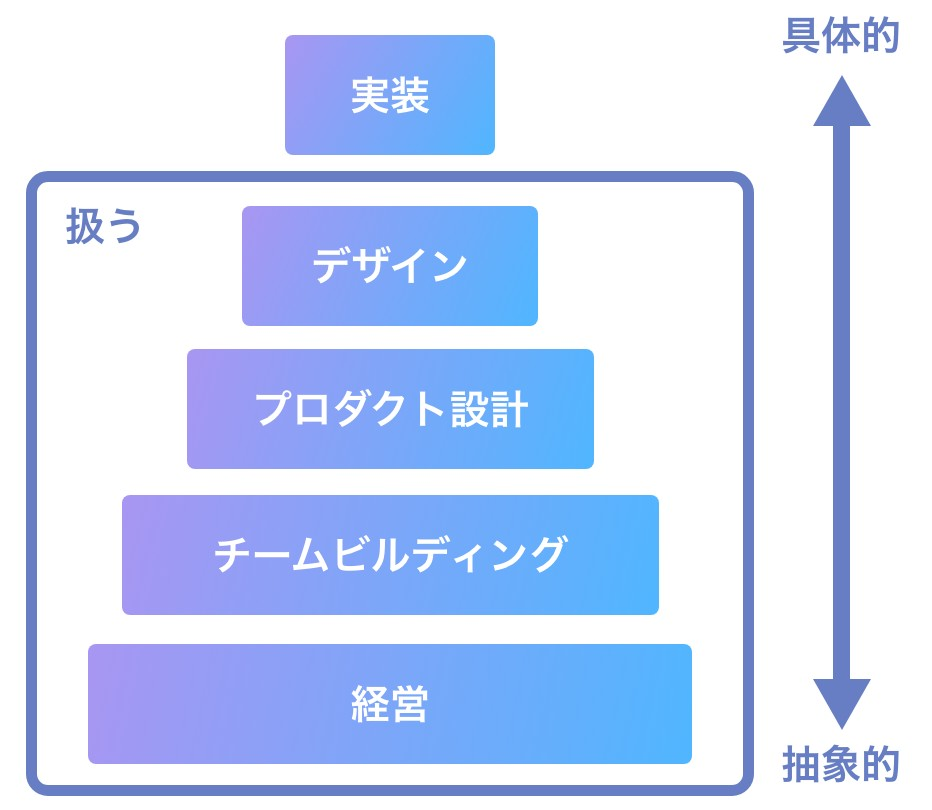
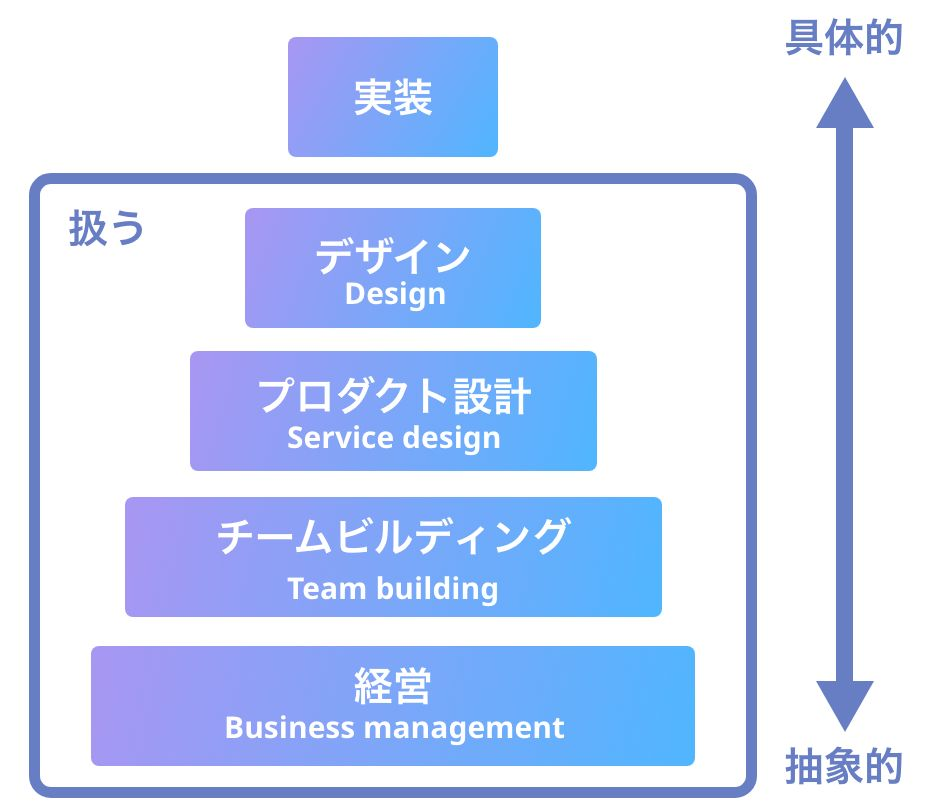
doc: readme

diff --git a/README.md b/README.md
@@ -10,7 +10,7 @@ https://blog.tocobird.com/
 
 ## コンセプト
 
-プロダクト開発、チーム開発、デザイン、ゲーム開発、アイデアの質の高い情報を発信する。
+プロダクト開発、チーム開発、デザイン、経営、アイデアの質の高い情報を発信する。
 
 ### 課題の想定とブログの目的
 
@@ -52,6 +52,7 @@ TocoBird の課題：記事がクローズドだと未完成になりがち。
 
 ## サービスの扱うもの
 
+以下の 4 要素を扱いたい。
 ![サービスで扱うもの設計](https://github.com/TocoBird/blog/blob/main/docs/images/tocoblog_service_structure.jpg?raw=true "サービスで扱うもの設計")
 
 ## ペルソナ ver1
